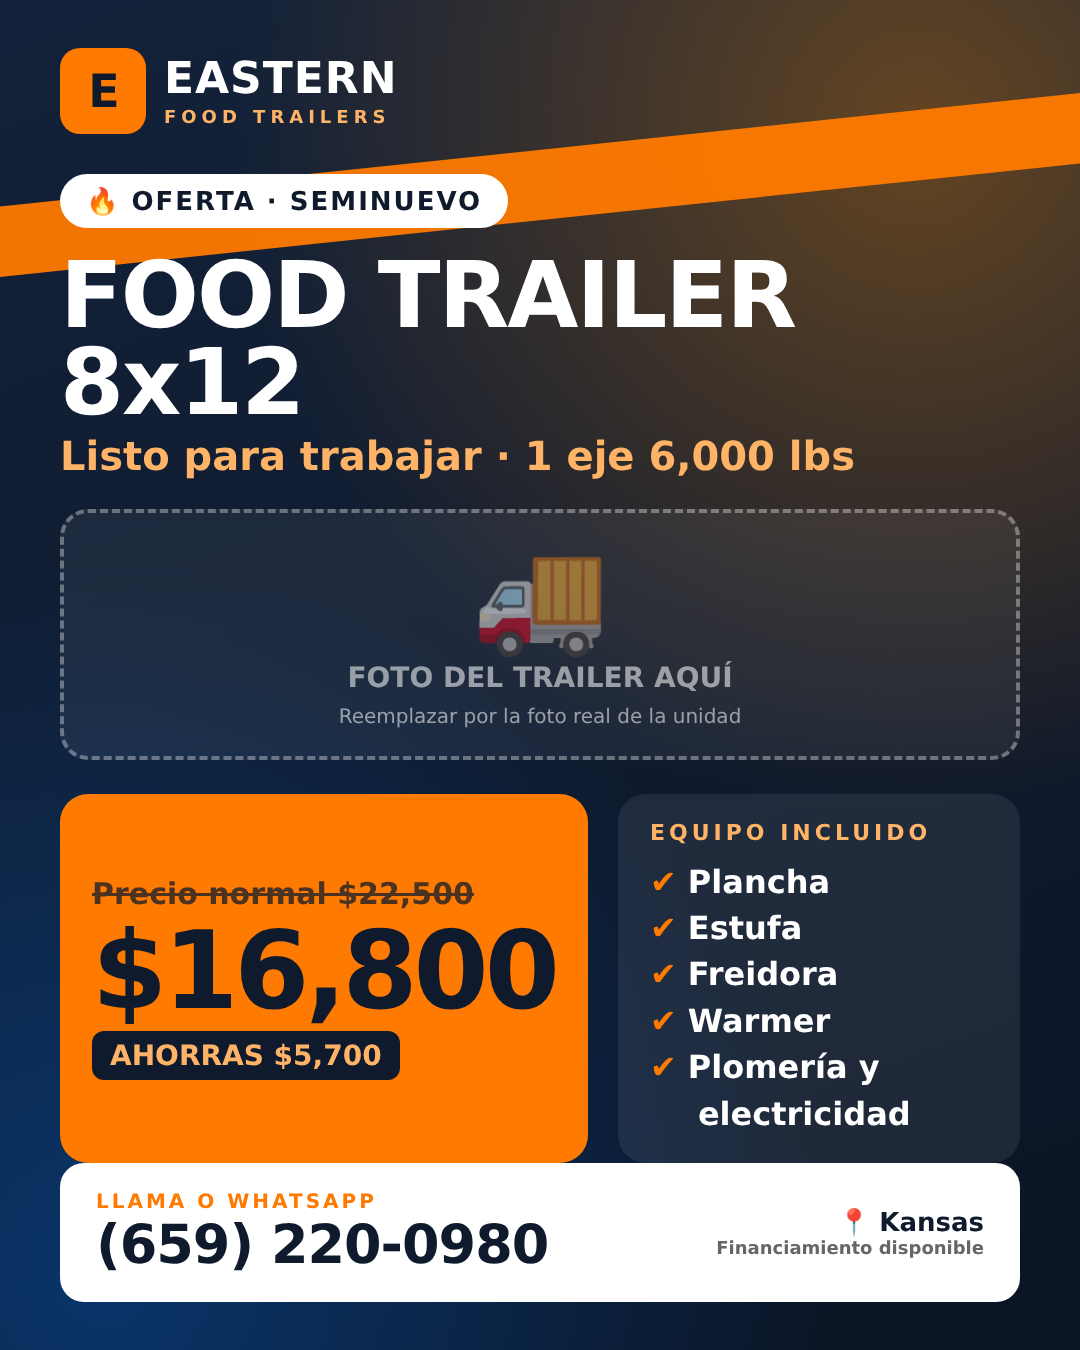
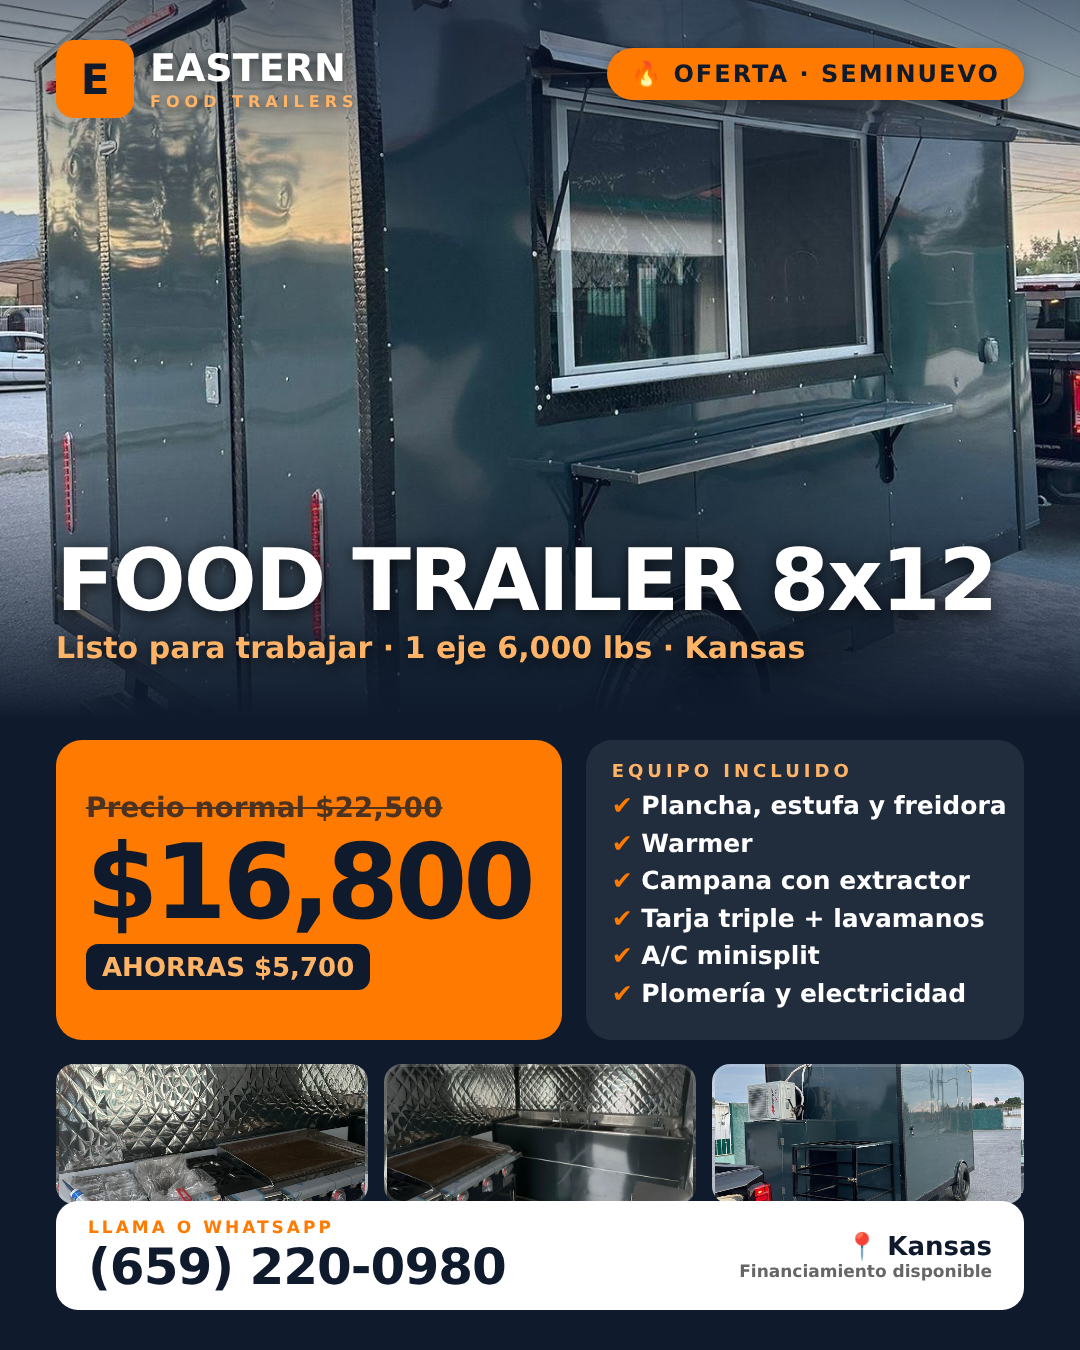
Flyer seminuevo 8x12 Eastern: fotos reales del trailer y lista de equipo
Claude-Session: https://claude.ai/code/session_01R4fCCWxcKstJAzv9nt2pue

diff --git a/publicaciones/flyers/seminuevo_8x12.html b/publicaciones/flyers/seminuevo_8x12.html
@@ -5,79 +5,68 @@
 <style>
   * { box-sizing: border-box; margin: 0; padding: 0; }
   body { width: 1080px; height: 1350px; font-family: "DejaVu Sans", Arial, Helvetica, sans-serif; background: #0f1b2d; color: #fff; overflow: hidden; position: relative; }
-  .bg { position: absolute; inset: 0; background:
-      radial-gradient(circle at 85% 10%, rgba(255,140,0,0.35), transparent 45%),
-      radial-gradient(circle at 10% 95%, rgba(0,120,255,0.3), transparent 45%),
-      linear-gradient(160deg, #13223a 0%, #0b1424 100%); }
-  .stripe { position: absolute; left: -200px; right: -200px; height: 70px; background: #ff7a00; transform: rotate(-6deg); opacity: 0.95; }
-  .stripe.top { top: 150px; }
-  .wrap { position: relative; padding: 48px 60px; height: 100%; display: flex; flex-direction: column; }
-  .brand { display: flex; align-items: center; gap: 18px; }
-  .brand .logo { width: 86px; height: 86px; border-radius: 20px; background: #ff7a00; display: flex; align-items: center; justify-content: center; font-size: 46px; font-weight: 900; color: #0f1b2d; letter-spacing: -2px; }
-  .brand h1 { font-size: 44px; font-weight: 900; letter-spacing: 1px; line-height: 1; }
-  .brand h1 span { display: block; font-size: 18px; font-weight: 600; letter-spacing: 5px; color: #ffb366; margin-top: 8px; }
-  .tag { margin-top: 40px; display: inline-block; align-self: flex-start; background: #fff; color: #0f1b2d; font-weight: 900; font-size: 26px; padding: 12px 26px; border-radius: 999px; letter-spacing: 2px; }
-  h2 { margin-top: 24px; font-size: 92px; font-weight: 900; line-height: 0.95; letter-spacing: -2px; }
-  h2 small { display: block; font-size: 40px; font-weight: 700; color: #ffb366; letter-spacing: 0; margin-top: 10px; }
-  .photo { margin-top: 34px; height: 380px; border-radius: 28px; border: 4px dashed rgba(255,255,255,0.35); background: rgba(255,255,255,0.06); display: flex; flex-direction: column; align-items: center; justify-content: center; color: rgba(255,255,255,0.55); font-size: 28px; font-weight: 700; gap: 10px; }
-  .photo .icon { font-size: 110px; line-height: 1; }
-  .photo .hint { font-size: 20px; font-weight: 400; }
-  .row { margin-top: 34px; display: flex; gap: 30px; align-items: stretch; }
-  .price { flex: 0 0 440px; background: #ff7a00; color: #0f1b2d; border-radius: 28px; padding: 28px 32px; display: flex; flex-direction: column; justify-content: center; }
-  .price .was { font-size: 30px; font-weight: 700; text-decoration: line-through; opacity: 0.75; }
-  .price .now { font-size: 108px; font-weight: 900; line-height: 1; letter-spacing: -4px; margin: 6px 0; }
-  .price .save { font-size: 28px; font-weight: 900; background: #0f1b2d; color: #ffb366; display: inline-block; padding: 8px 18px; border-radius: 12px; align-self: flex-start; }
-  .equip { flex: 1; background: rgba(255,255,255,0.08); border-radius: 28px; padding: 26px 32px; }
-  .equip h3 { font-size: 22px; letter-spacing: 4px; color: #ffb366; margin-bottom: 14px; }
-  .equip li { list-style: none; font-size: 32px; font-weight: 700; line-height: 1.45; padding-left: 48px; text-indent: -48px; }
+  .hero { position: absolute; top: 0; left: 0; width: 1080px; height: 720px; background: url('fotos/8x12_exterior.jpg') center 58% / cover no-repeat; }
+  .hero::after { content: ""; position: absolute; inset: 0; background: linear-gradient(180deg, rgba(15,27,45,0.55) 0%, rgba(15,27,45,0) 35%, rgba(15,27,45,0) 60%, #0f1b2d 100%); }
+  .brand { position: absolute; top: 40px; left: 56px; display: flex; align-items: center; gap: 16px; z-index: 2; }
+  .brand .logo { width: 78px; height: 78px; border-radius: 18px; background: #ff7a00; display: flex; align-items: center; justify-content: center; font-size: 42px; font-weight: 900; color: #0f1b2d; }
+  .brand h1 { font-size: 38px; font-weight: 900; line-height: 1; text-shadow: 0 2px 12px rgba(0,0,0,0.6); }
+  .brand h1 span { display: block; font-size: 16px; font-weight: 700; letter-spacing: 5px; color: #ffb366; margin-top: 7px; }
+  .tag { position: absolute; top: 48px; right: 56px; z-index: 2; background: #ff7a00; color: #0f1b2d; font-weight: 900; font-size: 24px; padding: 12px 24px; border-radius: 999px; letter-spacing: 2px; box-shadow: 0 6px 20px rgba(0,0,0,0.4); }
+  .title { position: absolute; top: 540px; left: 56px; right: 56px; z-index: 2; }
+  .title h2 { font-size: 86px; font-weight: 900; line-height: 0.95; letter-spacing: -2px; text-shadow: 0 3px 16px rgba(0,0,0,0.7); }
+  .title h2 small { display: block; font-size: 30px; font-weight: 700; color: #ffb366; letter-spacing: 0; margin-top: 12px; }
+  .row { position: absolute; top: 740px; left: 56px; right: 56px; display: flex; gap: 24px; height: 300px; }
+  .price { flex: 0 0 430px; background: #ff7a00; color: #0f1b2d; border-radius: 26px; padding: 26px 30px; display: flex; flex-direction: column; justify-content: center; }
+  .price .was { font-size: 28px; font-weight: 700; text-decoration: line-through; opacity: 0.75; }
+  .price .now { font-size: 104px; font-weight: 900; line-height: 1; letter-spacing: -4px; margin: 6px 0 10px; }
+  .price .save { font-size: 26px; font-weight: 900; background: #0f1b2d; color: #ffb366; display: inline-block; padding: 8px 16px; border-radius: 12px; align-self: flex-start; }
+  .equip { flex: 1; background: rgba(255,255,255,0.08); border-radius: 26px; padding: 20px 26px; overflow: hidden; }
+  .equip h3 { font-size: 18px; letter-spacing: 4px; color: #ffb366; margin-bottom: 6px; }
+  .equip li { list-style: none; font-size: 25px; font-weight: 700; line-height: 1.5; white-space: nowrap; }
   .equip li::before { content: "✔ "; color: #ff7a00; }
-  .foot { margin-top: auto; display: flex; justify-content: space-between; align-items: center; background: #fff; color: #0f1b2d; border-radius: 24px; padding: 26px 36px; }
-  .foot .phone { font-size: 54px; font-weight: 900; letter-spacing: -1px; }
-  .foot .phone small { display: block; font-size: 20px; font-weight: 700; letter-spacing: 3px; color: #ff7a00; }
+  .thumbs { position: absolute; top: 1064px; left: 56px; right: 56px; display: flex; gap: 16px; }
+  .thumbs div { flex: 1; height: 140px; border-radius: 18px; background-size: cover; background-position: center; border: 3px solid rgba(255,255,255,0.15); }
+  .foot { position: absolute; left: 56px; right: 56px; bottom: 40px; display: flex; justify-content: space-between; align-items: center; background: #fff; color: #0f1b2d; border-radius: 22px; padding: 18px 32px; }
+  .foot .phone { font-size: 50px; font-weight: 900; letter-spacing: -1px; line-height: 1; }
+  .foot .phone small { display: block; font-size: 17px; font-weight: 700; letter-spacing: 3px; color: #ff7a00; margin-bottom: 6px; }
   .foot .loc { text-align: right; font-size: 26px; font-weight: 700; }
-  .foot .loc small { display: block; font-size: 18px; font-weight: 600; color: #666; }
+  .foot .loc small { display: block; font-size: 17px; font-weight: 600; color: #666; }
 </style>
 </head>
 <body>
-<div class="bg"></div>
-<div class="stripe top"></div>
-<div class="wrap">
-  <div class="brand">
-    <div class="logo">E</div>
-    <h1>EASTERN<span>FOOD TRAILERS</span></h1>
-  </div>
+<div class="hero"></div>
+<div class="brand"><div class="logo">E</div><h1>EASTERN<span>FOOD TRAILERS</span></h1></div>
+<div class="tag">🔥 OFERTA · SEMINUEVO</div>
+<div class="title"><h2>FOOD TRAILER 8x12<small>Listo para trabajar · 1 eje 6,000 lbs · Kansas</small></h2></div>
 
-  <div class="tag">🔥 OFERTA · SEMINUEVO</div>
-  <h2>FOOD TRAILER 8x12<small>Listo para trabajar · 1 eje 6,000 lbs</small></h2>
-
-  <div class="photo">
-    <div class="icon">🚚</div>
-    <div>FOTO DEL TRAILER AQUÍ</div>
-    <div class="hint">Reemplazar por la foto real de la unidad</div>
+<div class="row">
+  <div class="price">
+    <div class="was">Precio normal $22,500</div>
+    <div class="now">$16,800</div>
+    <div class="save">AHORRAS $5,700</div>
   </div>
-
-  <div class="row">
-    <div class="price">
-      <div class="was">Precio normal $22,500</div>
-      <div class="now">$16,800</div>
-      <div class="save">AHORRAS $5,700</div>
-    </div>
-    <div class="equip">
-      <h3>EQUIPO INCLUIDO</h3>
-      <ul>
-        <li>Plancha</li>
-        <li>Estufa</li>
-        <li>Freidora</li>
-        <li>Warmer</li>
-        <li>Plomería y electricidad</li>
-      </ul>
-    </div>
+  <div class="equip">
+    <h3>EQUIPO INCLUIDO</h3>
+    <ul>
+      <li>Plancha, estufa y freidora</li>
+      <li>Warmer</li>
+      <li>Campana con extractor</li>
+      <li>Tarja triple + lavamanos</li>
+      <li>A/C minisplit</li>
+      <li>Plomería y electricidad</li>
+    </ul>
   </div>
+</div>
 
-  <div class="foot">
-    <div class="phone"><small>LLAMA O WHATSAPP</small>(659) 220-0980</div>
-    <div class="loc">📍 Kansas<small>Financiamiento disponible</small></div>
-  </div>
+<div class="thumbs">
+  <div style="background-image:url('fotos/8x12_cocina.jpg')"></div>
+  <div style="background-image:url('fotos/8x12_tarja.jpg')"></div>
+  <div style="background-image:url('fotos/8x12_trasera.jpg')"></div>
+</div>
+
+<div class="foot">
+  <div class="phone"><small>LLAMA O WHATSAPP</small>(659) 220-0980</div>
+  <div class="loc">📍 Kansas<small>Financiamiento disponible</small></div>
 </div>
 </body>
 </html>
